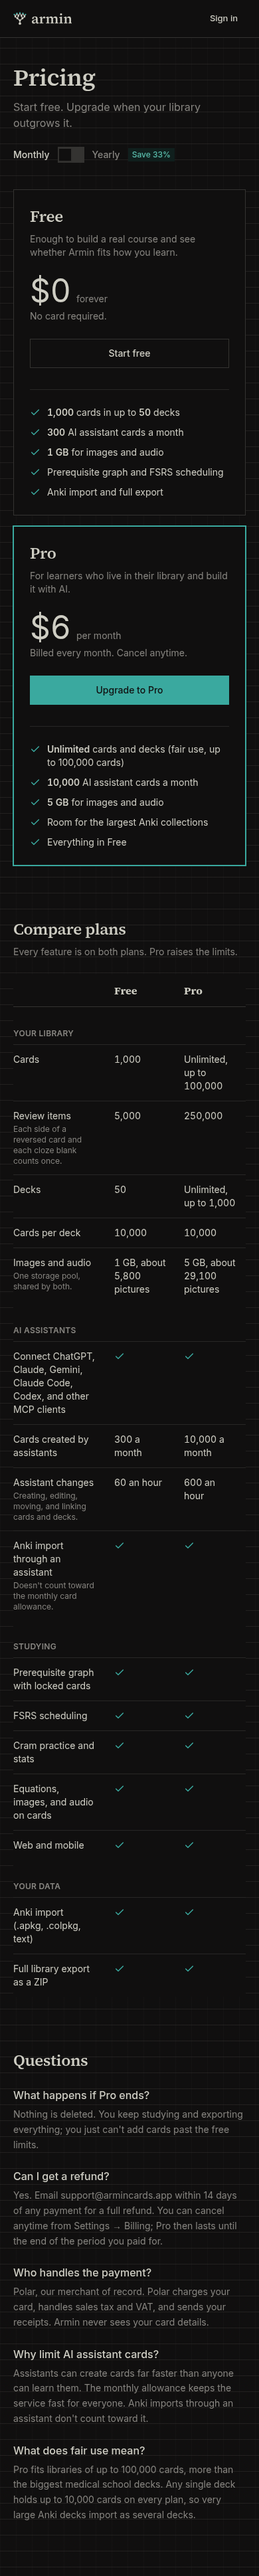
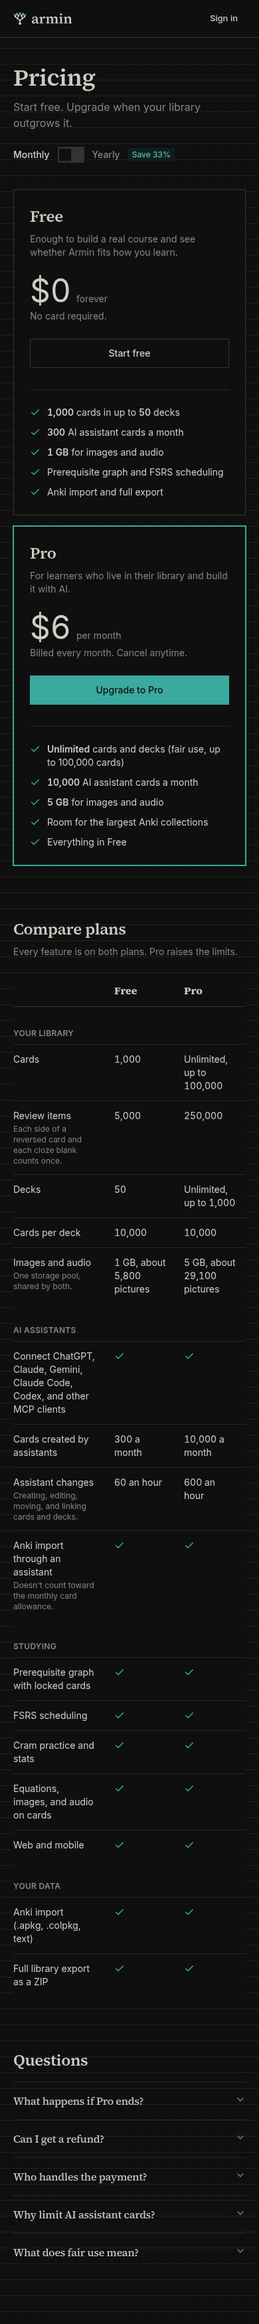
Collapse pricing questions into a shadcn Base UI accordion

diff --git a/apps/web/src/components/ui/accordion.tsx b/apps/web/src/components/ui/accordion.tsx
@@ -1,0 +1,59 @@
+import { Accordion as AccordionPrimitive } from "@base-ui/react/accordion";
+import { ChevronDownIcon } from "lucide-react";
+import { cn } from "@/lib/utils";
+
+/** shadcn's Accordion on Base UI. */
+function Accordion({ className, ...props }: AccordionPrimitive.Root.Props) {
+  return (
+    <AccordionPrimitive.Root
+      data-slot="accordion"
+      className={cn("flex w-full flex-col", className)}
+      {...props}
+    />
+  );
+}
+
+function AccordionItem({ className, ...props }: AccordionPrimitive.Item.Props) {
+  return (
+    <AccordionPrimitive.Item
+      data-slot="accordion-item"
+      className={cn("border-b border-border last:border-b-0", className)}
+      {...props}
+    />
+  );
+}
+
+function AccordionTrigger({ className, children, ...props }: AccordionPrimitive.Trigger.Props) {
+  return (
+    <AccordionPrimitive.Header className="flex">
+      <AccordionPrimitive.Trigger
+        data-slot="accordion-trigger"
+        className={cn(
+          "group/accordion-trigger flex flex-1 cursor-pointer items-start justify-between gap-4 py-4 text-left font-medium text-ink transition-colors duration-150 hover:text-accent-deep focus-visible:outline-none focus-visible:ring-2 focus-visible:ring-accent focus-visible:ring-offset-2 focus-visible:ring-offset-bg data-disabled:pointer-events-none data-disabled:opacity-50",
+          className,
+        )}
+        {...props}
+      >
+        {children}
+        <ChevronDownIcon
+          aria-hidden
+          className="mt-0.5 size-4 shrink-0 text-muted transition-transform duration-200 ease-[var(--ease-out-quart)] group-data-panel-open/accordion-trigger:rotate-180"
+        />
+      </AccordionPrimitive.Trigger>
+    </AccordionPrimitive.Header>
+  );
+}
+
+function AccordionContent({ className, children, ...props }: AccordionPrimitive.Panel.Props) {
+  return (
+    <AccordionPrimitive.Panel
+      data-slot="accordion-content"
+      className="h-(--accordion-panel-height) overflow-hidden text-sm transition-[height] duration-200 ease-[var(--ease-out-quart)] data-ending-style:h-0 data-starting-style:h-0"
+      {...props}
+    >
+      <div className={cn("pb-4", className)}>{children}</div>
+    </AccordionPrimitive.Panel>
+  );
+}
+
+export { Accordion, AccordionContent, AccordionItem, AccordionTrigger };

diff --git a/apps/web/src/components/pricing/pricing-page.tsx b/apps/web/src/components/pricing/pricing-page.tsx
@@ -3,6 +3,12 @@ import { Link } from "@tanstack/react-router";
 import { Check } from "lucide-react";
 import { MAX_FLASHCARDS_PER_DECK, PLAN_LIMITS, PLAN_PRICES } from "@armin/core/plans";
 import { ArminMark, ArminWordmark } from "@/components/brand";
+import {
+  Accordion,
+  AccordionContent,
+  AccordionItem,
+  AccordionTrigger,
+} from "@/components/ui/accordion";
 import { buttonVariants } from "@/components/ui/button";
 import { Switch } from "@/components/ui/switch";
 import { formatStorage, picturesIn } from "@/lib/storage-size";
@@ -391,14 +397,16 @@ export function PricingPage() {
           <h2 id="questions" className="text-2xl text-ink">
             Questions
           </h2>
-          <dl className="mt-6 grid gap-x-10 gap-y-6 md:grid-cols-2">
+          <Accordion multiple className="mt-4 max-w-3xl border-t border-border">
             {questions.map(({ q, a }) => (
-              <div key={q}>
-                <dt className="font-medium text-ink">{q}</dt>
-                <dd className="mt-1.5 text-sm leading-relaxed text-muted">{a}</dd>
-              </div>
+              <AccordionItem key={q} value={q}>
+                <AccordionTrigger>{q}</AccordionTrigger>
+                <AccordionContent className="max-w-prose leading-relaxed text-muted">
+                  {a}
+                </AccordionContent>
+              </AccordionItem>
             ))}
-          </dl>
+          </Accordion>
         </section>
       </main>
     </div>

diff --git a/docs/qa/2026-11-02-pricing-page.md b/docs/qa/2026-11-02-pricing-page.md
@@ -25,6 +25,9 @@ viewport, not a real device).
 - `components/ui/switch.tsx` is now shadcn's Switch on Base UI
   (`@base-ui/react/switch`), with the same props, so existing callers are
   unchanged. AGENTS.md says `ui/` primitives follow shadcn's Base UI variants.
+- The questions are a collapsible list built from shadcn's Accordion on Base UI
+  (`components/ui/accordion.tsx`, new). All start closed, and several can be open
+  at once.
 
 ## Steps
 
@@ -37,6 +40,10 @@ viewport, not a real device).
    period.
 3. Dark, 390 px: the title, switch, cards, and table stack without horizontal
    scrolling (`scrollWidth` 390) (`mobile-monthly.png`).
+4. Questions: five triggers, all collapsed on load. Clicking "What happens if Pro
+   ends?" opens it (`aria-expanded="true"`) and the chevron flips
+   (`desktop-questions-light.png`). With "Can I get a refund?" focused, Enter
+   opens it and Space closes it.
 
 ## Validation
 
